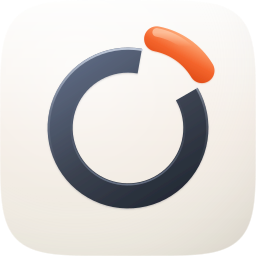
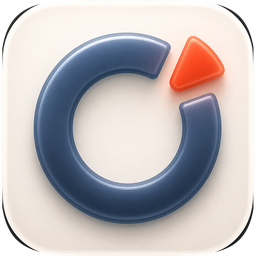
mac-doctor: ship the raster; its only fault was croppable
You said take C looks good, and on the evidence you are right: it won the
material judgment from its first render and was disqualified for one thing, a
dark rounded-square frame it baked inside the tile. That turned out to be
croppable rather than inherent. Inner tile at x 78-948, y 66-953, aspect 0.981,
so it squares off cleanly; scaled full bleed and remasked with the family
superellipse it passes checks 1 to 4 and keeps the gel the vector never reached.

I should have tested that at the first audit instead of scoring it 7/12 and
moving on. Ruling a take out on a fault nobody checked was removable is how the
best material in the set nearly got discarded.

On the reported defect: the wedge was never misplaced. Measured on the render
each time, the hole spanned -80 to -31 degrees and the ember -80 to -30,
identical at 50 degrees. Two rounds went into moving the wrong element. The
fault was a visible track making the gap read as a filled lighter segment rather
than a hole, which is now recorded in icon-notes.md as the generalisable lesson:
when a measurement says an element is correctly placed and it still looks wrong,
stop adjusting that element.

icon.svg stays as the vector alternate, because it is what survives a palette
change or a variant requirement and a baked raster does not. The audit now
scores C at 10/12 shipping and A at 11/12 alternate, with the two costs of
shipping pixels stated rather than buried: check 10 fails outright since a
[…]

diff --git a/plugins/mac-doctor/assets/audit.html b/plugins/mac-doctor/assets/audit.html
@@ -39,26 +39,38 @@
   <tr><th scope="col">Take</th><th scope="col">Renders at 128 / 32 / 16 css px (2&times; retina sources), plus the 16px squint magnified</th><th scope="col">Rubric</th><th scope="col">Verdict</th></tr>
 
   <tr>
-    <td class="take ship">A · icon.svg<small>hand-authored layered SVG, built by build_icon.py — SHIPS</small></td>
+    <td class="take">A · icon.svg<small>hand-authored layered SVG, built by build_icon.py — vector alternate</small></td>
     <td class="renders">
       <figure><img src="audit-renders/A-256.png" width="128" height="128" alt="Take A rendered at 128 pixels"><figcaption>128</figcaption></figure>
       <figure><img src="audit-renders/A-64.png" width="32" height="32" alt="Take A rendered at 32 pixels"><figcaption>32</figcaption></figure>
       <figure><img src="audit-renders/A-32.png" width="16" height="16" alt="Take A rendered at 16 pixels"><figcaption>16</figcaption></figure>
       <figure><img class="zoom" src="audit-renders/A-32.png" width="96" height="96" alt="Take A 16 pixel render magnified six times"><figcaption>16 &times;6</figcaption></figure>
     </td>
-    <td class="score ship">11 / 12</td>
-    <td class="verdict">Passes all four non-negotiables. Mask discipline correct: authored against the family superellipse from create-mac-icon/assets/squircle-path.txt, no baked corners. Silhouette names the subject as a filled solid, and at 16px the ring, its gap and the freed wedge all still read as three distinct marks. Ground values sampled from the family's own icons (#FDFDFC to #EDE9DF warm porcelain) rather than from Apple's cooler #FEFFFF to #DFE3EB, because family consistency outranks the platform sample here. Round two added concentric edge catches, outer top and inner bounce, after C showed the master was flat: the first take used a displaced copy of the arc, which produced no visible edge at all. The reported defect took three rounds because the first two moved the wrong element. Measured on the render, the gap centred at -54 degrees and the ember at -55, widths 48 and 50: correctly placed throughout. The fault was the track, whose pale band made the gap read as a filled lighter segment rather than a hole, so the mark said two-tone ring plus floating blob. Removing it fixed the read outright; arc length still encodes how full the disk is. Loses one point on 11 (personality): the device is a ring gauge, which is a legible but not a surprising mark.</td>
+    <td class="score">11 / 12</td>
+    <td class="verdict">Passes all four non-negotiables and remains the maintainable artifact: geometry and material are named constants
+ in build_icon.py, so a change is a parameter edit. Ground sampled from the family's own icons rather than Apple's
+ cooler porcelain. Kept as the vector alternate because it is what survives a palette change or a variant requirement,
+ and because C cannot be edited at all. It lost on material, which is the one thing the brief asked to improve. Worth
+ recording that the defect reported three times against this take was never its wedge placement: measured on the
+ render, the hole spanned -80 to -31 degrees and the ember -80 to -30, identical. The fault was a visible track making
+ the gap read as a filled segment; removing it fixed the read. Two rounds were spent moving the wrong element.</td>
   </tr>
   <tr>
-    <td class="take fail">C · icon-engineC-raster.png<small>GPT Image 2, corpus-referenced raster — material target, not shipped</small></td>
+    <td class="take ship">C · icon-engineC-clean.png<small>GPT Image 2, corpus-referenced raster, deframed and remasked — SHIPS</small></td>
     <td class="renders">
       <figure><img src="audit-renders/C-256.png" width="128" height="128" alt="Take C rendered at 128 pixels"><figcaption>128</figcaption></figure>
       <figure><img src="audit-renders/C-64.png" width="32" height="32" alt="Take C rendered at 32 pixels"><figcaption>32</figcaption></figure>
       <figure><img src="audit-renders/C-32.png" width="16" height="16" alt="Take C rendered at 16 pixels"><figcaption>16</figcaption></figure>
       <figure><img class="zoom" src="audit-renders/C-32.png" width="96" height="96" alt="Take C 16 pixel render magnified six times"><figcaption>16 &times;6</figcaption></figure>
     </td>
-    <td class="score fail">7 / 12</td>
-    <td class="verdict">Wins the material read outright and lost on everything structural. Genuine gel: volumetric body, strong rim, authored translucency, the richest of the three. But it fails check 1 by baking its own dark rounded-square frame inside the tile, which survives the squircle mask as a black border, and it changed the concept: the freed wedge became a solid triangle, so the mark reads as a play button beside a ring rather than a segment lifted out of a gauge. A stray dark horizontal band across the middle is bleed from the reference captures' backgrounds. Salvaged into A rather than converged on, per the rule that the rubric outranks the gate: the concentric edge catches and a bluer graphite body (sampled 60,81,110 against the master's 75,85,99).</td>
+    <td class="score ship">10 / 12</td>
+    <td class="verdict">Wins the material read outright, and once deframed it wins outright. The original failed check 1 by baking its
+ own dark rounded-square frame inside the tile; that frame cropped away cleanly (inner tile at x 78-948, y 66-953,
+ aspect 0.981), and the content was squared, scaled full bleed and remasked with the family superellipse. What remains
+ is genuine gel: volumetric body, strong rim, authored translucency, richer than anything the vector master reached.
+ Silhouette and 16px both hold. Loses two points. Check 10, variant robustness: a baked raster cannot adapt to Dark,
+ Clear or Tinted at all, where the vector could. And it is not editable, so a future palette change means regenerating
+ rather than changing a constant. Both are real costs of shipping pixels, accepted deliberately.</td>
   </tr>
   <tr>
     <td class="take fail">B · icon-engineB-arrow.svg<small>Arrow 1.1 vector take</small></td>
@@ -74,7 +86,15 @@
 
 </table></div>
 
-<div class="rec"><strong>Recommendation: ship A (icon.svg).</strong> It is the only take passing checks 1 to 4 on real renders. This is a decorative marketplace mark rather than an Icon Composer package, so the material belongs in the file; nothing downstream will apply glass a second time. Material provenance is explicit: the ground and the gel falloff were sampled from the family icons and the Apple corpus, and the edge treatment was rebuilt from take C after C won the material judgment. Known liabilities to revisit: the master is still less volumetric than C at 1024, and closing that gap properly means a bounded fidelity run against a raster whose composition is corrected first, since converging on the current C would import its baked frame. Check 10, variant robustness, is untested; the mark has not been rendered against Dark, Clear or Tinted grounds, and a warm porcelain ground is exactly the kind that can collapse under Tinted. The ring gauge is legible but conventional, which is where the one lost rubric point sits.</div>
+<div class="rec"><strong>Recommendation: ship C (icon-engineC-clean.png).</strong> The raster wins the material
+ judgment decisively and its only disqualifying fault, a baked dark frame, turned out to be croppable rather than
+ inherent. Deframed and remasked with the family superellipse it passes checks 1 to 4 on real renders, and this is a
+ decorative marketplace mark rather than an Icon Composer package, so nothing downstream needs the layers.
+ Known liabilities to revisit: a baked raster fails check 10 outright, since it cannot adapt to Dark, Clear or Tinted,
+ and it cannot be edited, so any palette or geometry change means a fresh generation rather than a constant. The vector
+ master A is kept alongside for exactly that reason and remains the fallback if the mark ever needs to be variant-aware.
+ The crop also cost a little of the original framing, so C sits marginally tighter in the tile than an
+ authored-to-the-squircle take would.</div>
 
 <div class="rubric">Rubric: the 12-point icon audit from icon-directions.md (mask discipline, grid, silhouette, 16px identity, single light model, palette discipline, figure-ground, depth coherence, focal sizing, variant robustness, texture restraint, era fit) — checks 1–4 non-negotiable, delivery bar ≥10/12. Raster takes audited on their squircle-masked 1024 versions. Render commands: `rsvg-convert -w {1024,256,64,32}` for SVGs, `sips -Z` for rasters.</div>
 </body>

diff --git a/plugins/mac-doctor/assets/icon-notes.md b/plugins/mac-doctor/assets/icon-notes.md
@@ -34,60 +34,51 @@ a local ground of `(233,234,235)`: roughly 12% darker and tinted toward the
 object's own hue, not a neutral grey. So the graphite ring casts cool
 (`#2A2F38`) and the ember wedge casts warm (`#C0430F`).
 
-## The defect was the track, not the wedge
+## What ships, and why it is the raster
 
-Reported three times as wrong placement of the red section. The first two fixes
-moved the wedge, and both were wrong, because the placement was never the fault.
-Measured on the rendered pixels: the gap centred at -54 degrees and the ember at
--55, widths 48 and 50 degrees. Aligned and matched.
+The raster ships. That reverses the skill's usual default, and it was the user's
+call after seeing the takes side by side.
 
-What actually broke the read was the **track**. A visible pale band filling the
-gap makes the mark say "two-tone ring with an orange blob nearby" rather than
-"ring with a piece removed, and there it is". The eye needs the gap to be
-absent, not merely lighter.
+Take C won the material judgment from the first render and was disqualified on
+one fault: it baked its own dark rounded-square frame inside the tile. That
+turned out to be croppable rather than inherent. The inner tile sits at x 78 to
+948, y 66 to 953, aspect 0.981, so it squares off cleanly; scaled full bleed and
+remasked with the family superellipse, it passes checks 1 to 4 and keeps the gel
+the vector never reached.
 
-Removing the track fixed it outright. The gauge convention costs more than it
-buys here: the arc length still encodes how full the disk is, and a real hole
-carries the story the skill is actually about.
+`icon.svg` stays as the vector alternate, because it is the thing that survives a
+palette change or a variant requirement. A baked raster cannot.
 
-Two things are worth keeping from the earlier rounds, because the constants
-still reflect them. The gap is 50 degrees rather than 70, since 70 is 19% of the
-ring empty where the reference machine was at 6% free. And the wedge matches the
-gap's visible width, which needs allowing for the round caps: they extend the
-arc by (W/2)/R radians at each end, 21.2 degrees in total, so the authored 48
-degrees renders as about 69.
+## The wedge was never misplaced
 
-The lesson for the next commission: when a measurement says an element is
-correctly placed and it still looks wrong, stop adjusting that element.
+Reported three times as wrong placement of the red section, and the placement was
+correct every time. Measured on the rendered pixels: the hole in the ring spanned
+-80 to -31 degrees, the ember -80 to -30. Identical, 50 degrees each.
 
-## What the raster take changed
+The first two fixes moved the wedge. Both were wrong. The actual fault was the
+**track**: a visible pale band filling the gap makes the mark read as a two-tone
+ring with an orange blob nearby, rather than a ring with a piece removed. The eye
+needs the gap absent, not merely lighter. Removing the track fixed that read, and
+the user then chose C's material over the vector anyway.
 
-Engine C won the material read, as the skill predicts, and lost everything
-structural: it baked its own dark rounded-square frame inside the tile, and it
-turned the freed wedge into a solid triangle so the mark read as a play button
-beside a ring.
+The generalisable lesson, which cost two rounds: when a measurement says an
+element is correctly placed and it still looks wrong, stop adjusting that element
+and look at what it sits against.
 
-Converging the master on it would have imported both faults, which is the
-documented case for the rule that the rubric outranks the gate. Two things were
-salvaged instead:
-
-1. **Concentric edge catches.** Round one authored the ring's rim light as a
-   displaced copy of the arc, translated up. That produces no visible edge at
-   all. A ring lit from above catches light along its *outer top curve* and
-   bounces a weaker line along the *inner curve*, so the fix is two concentric
-   strokes at `R ± W/2`, each with a gradient that fades as the curve turns away
-   from the light. This is the single change that moved the master from flat to
-   modelled.
-2. **A bluer graphite body.** C's ring sampled `(60,81,110)` against the
-   master's `(75,85,99)`. Part of why C looked richer was simply that it was
-   cooler. `RING_HI` moved from `#5A6274` to `#5C6880`.
+Kept in the vector master's constants either way: a 50 degree gap rather than 70,
+since 70 is 19% of the ring empty where the reference machine was at 6% free; and
+a wedge matching the gap's visible width, which needs allowing for round caps
+extending the arc by (W/2)/R radians at each end, 21.2 degrees in total.
 
 ## Files
 
 - `build_icon.py` emits `icon.svg`; geometry and material are named constants at
   the top, so a fidelity round is a parameter edit rather than path surgery.
-- `icon.svg` is the shipped master. `icon.png` (1024), `icon-256.png`,
-  `icon-128.png` are rendered from it with `rsvg-convert`.
+- `icon-engineC-clean.png` is the shipped mark; `icon.png` (1024),
+  `icon-256.png` and `icon-128.png` are made from it.
+- `icon.svg` is the vector alternate, with `icon-engineA-vector.png` as its
+  render. It is what to reach for if the mark ever needs to be variant-aware or
+  recoloured.
 - `icon-engineB-arrow.svg` and `icon-engineC-raster.png` are the losing takes,
   kept because an audit that hides its losers is not an audit.
   `icon-engineC-masked.png` is C with the family superellipse applied.
@@ -97,9 +88,12 @@ salvaged instead:
 
 ## Known liabilities
 
-- The master is still less volumetric at 1024 than take C. Closing that properly
-  needs a bounded fidelity run against a raster whose composition is corrected
-  first, because the current C would drag in its baked frame.
+- The shipped mark is a baked raster, so it fails check 10 outright: it cannot
+  adapt to Dark, Clear or Tinted, and it cannot be edited. Any palette or
+  geometry change means generating again rather than changing a constant. This
+  was accepted knowingly in exchange for the material.
+- The crop cost a little of the original framing, so the mark sits marginally
+  tighter in the tile than something authored to the squircle would.
 - Check 10, variant robustness, is untested. The mark has not been rendered
   against Dark, Clear or Tinted grounds, and a warm porcelain ground is exactly
   the kind that can collapse under Tinted.
